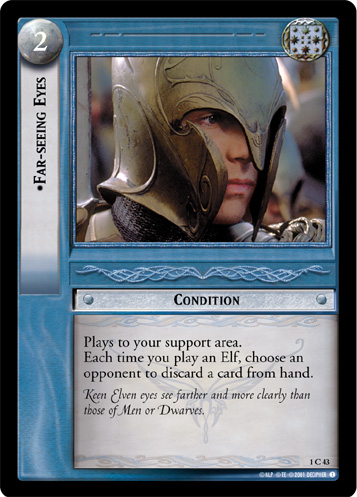
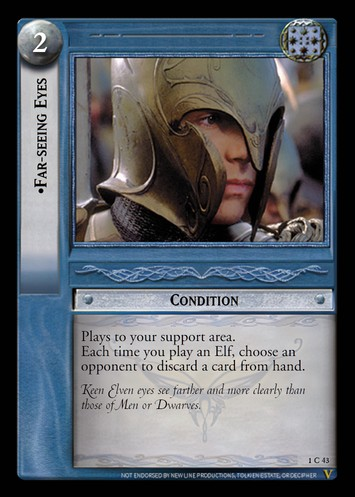
Converting all errata images to jpg and replacing their images with output from the PC card generator.  Edited the errata image javascript to read all images from the dictionary instead of just pngs.

diff --git a/gemp-lotr/gemp-lotr-async/src/main/web/js/gemp-022/jCards.js b/gemp-lotr/gemp-lotr-async/src/main/web/js/gemp-022/jCards.js
@@ -377,21 +377,17 @@ var Card = Class.extend({
         return false;
     },
 
-    pngErratas: {
-        "1": [3, 55, 113, 235, 318],
+    remadeErratas: {
+        "0": [7],
+        "1": [3, 12, 43, 46, 55, 113, 235, 318],
         "3": [48],
         "4": [236, 237],
         "18": [8, 12, 25, 35, 48, 50, 77, 78, 79, 80, 94, 97]
     },
 
     getErrata: function (setNo, cardNo) {
-        if (setNo == 0 && cardNo == 7)
-            return "/gemp-lotr/images/erratas/LOTR00007.jpg";
-        if (setNo == 1 && (cardNo == 12 || cardNo == 43 || cardNo == 46))
-            return "/gemp-lotr/images/erratas/LOTR010" + cardNo + ".jpg";
-
-        if (this.pngErratas["" + setNo] != null && $.inArray(cardNo, this.pngErratas["" + setNo]) != -1)
-            return "/gemp-lotr/images/erratas/LOTR" + this.formatCardNo(setNo, cardNo) + ".png";
+        if (this.remadeErratas["" + setNo] != null && $.inArray(cardNo, this.remadeErratas["" + setNo]) != -1)
+            return "/gemp-lotr/images/erratas/LOTR" + this.formatCardNo(setNo, cardNo) + ".jpg";
         return null;
     },
 
